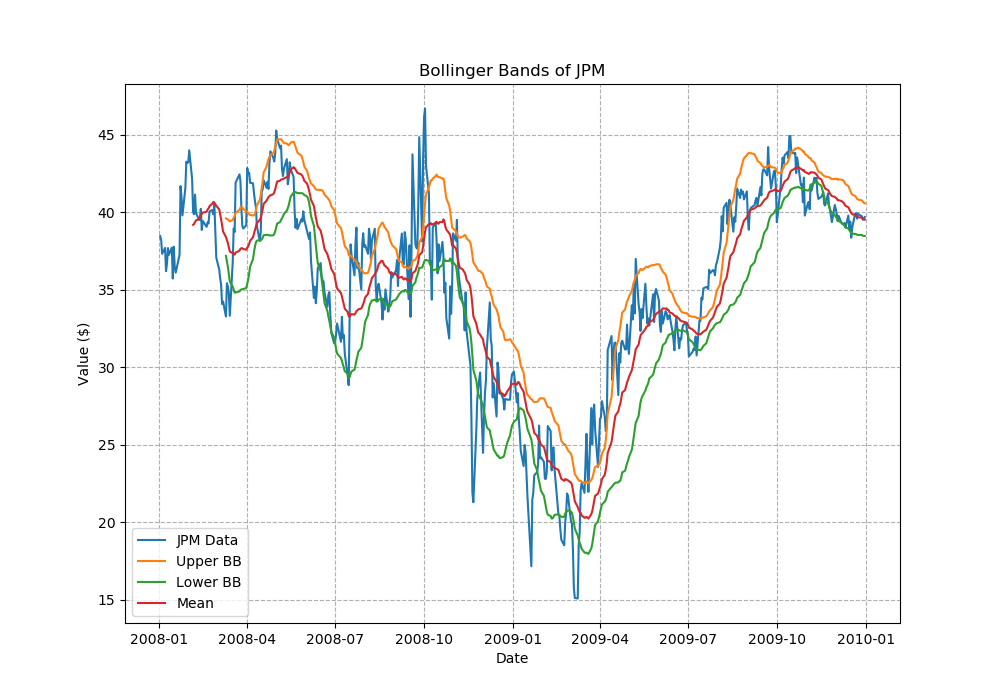
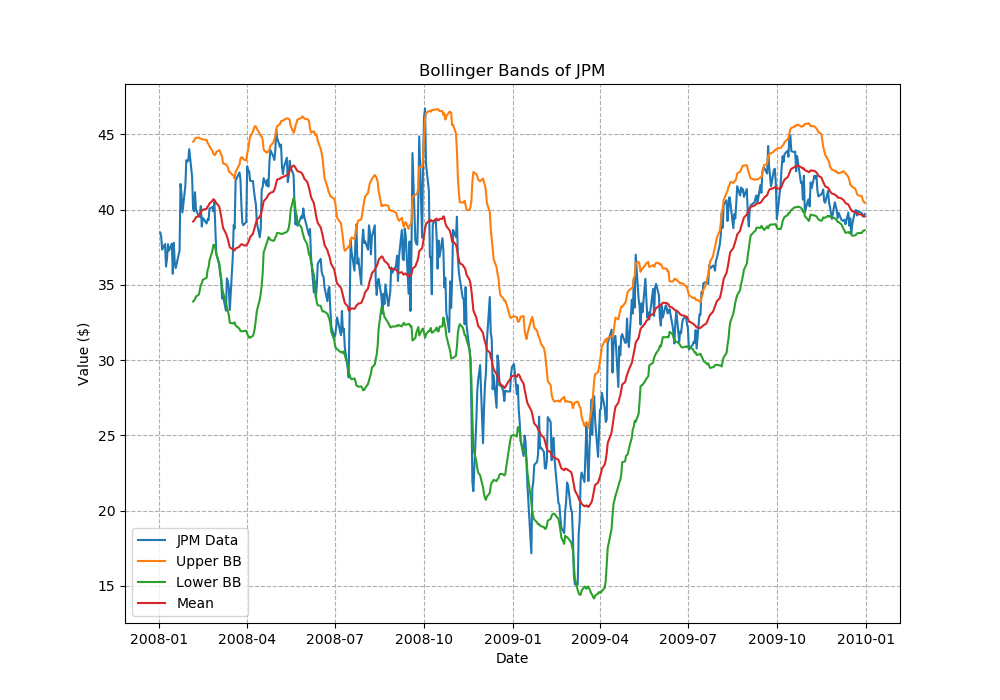
Project 6: Part 2 BB update

diff --git a/indicator_evaluation/indicators.py b/indicator_evaluation/indicators.py
@@ -23,12 +23,12 @@ def sma(data, window):
 
 def bolinger_bands(data, window, threshold):
     avg = sma(data, window)
-    std = avg.rolling(window=window, center=False).std()
+    std = data.rolling(window=window, center=False).std()
 
-    upper_band = avg + threshold * std
+    upper_band = pd.DataFrame(avg['mean'] + threshold * std['JPM'])
     upper_band.rename(columns={upper_band.columns[0]: "upper"}, inplace=True)
 
-    lower_band = avg - threshold * std
+    lower_band = pd.DataFrame(avg['mean'] - threshold * std['JPM'])
     lower_band.rename(columns={lower_band.columns[0]: "lower"}, inplace=True)
 
     df_out = pd.concat([avg, upper_band, lower_band], axis=1)
